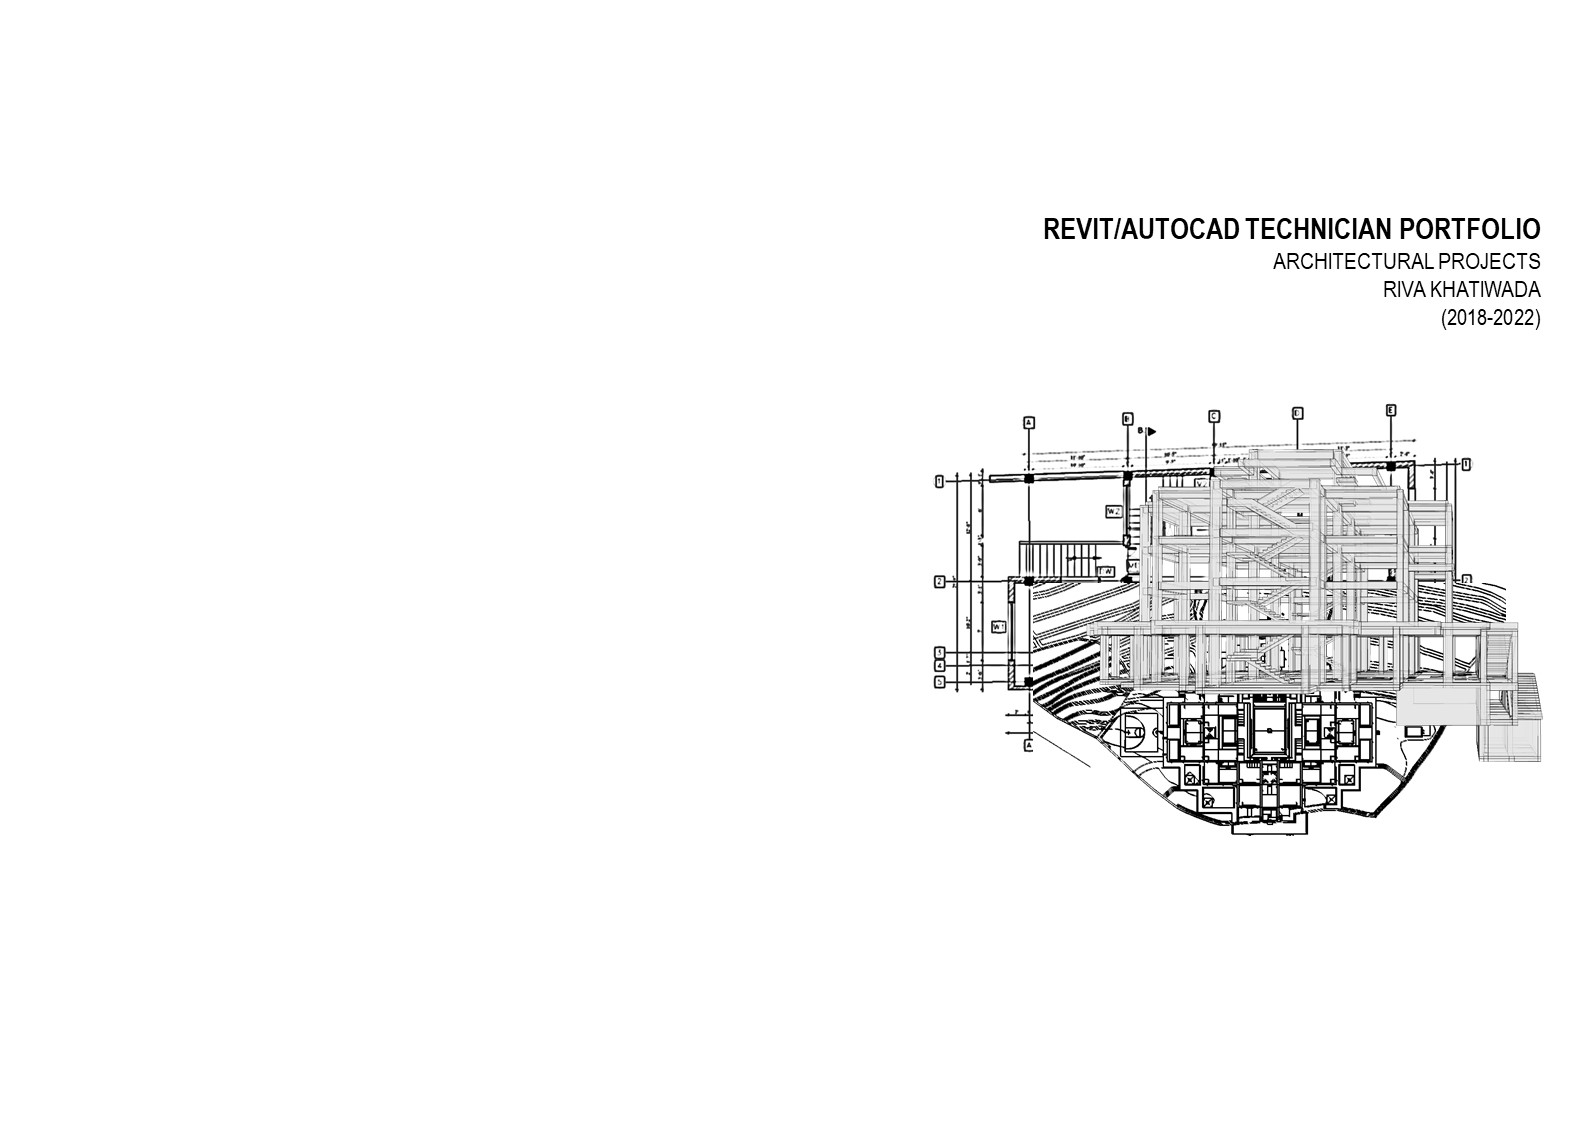
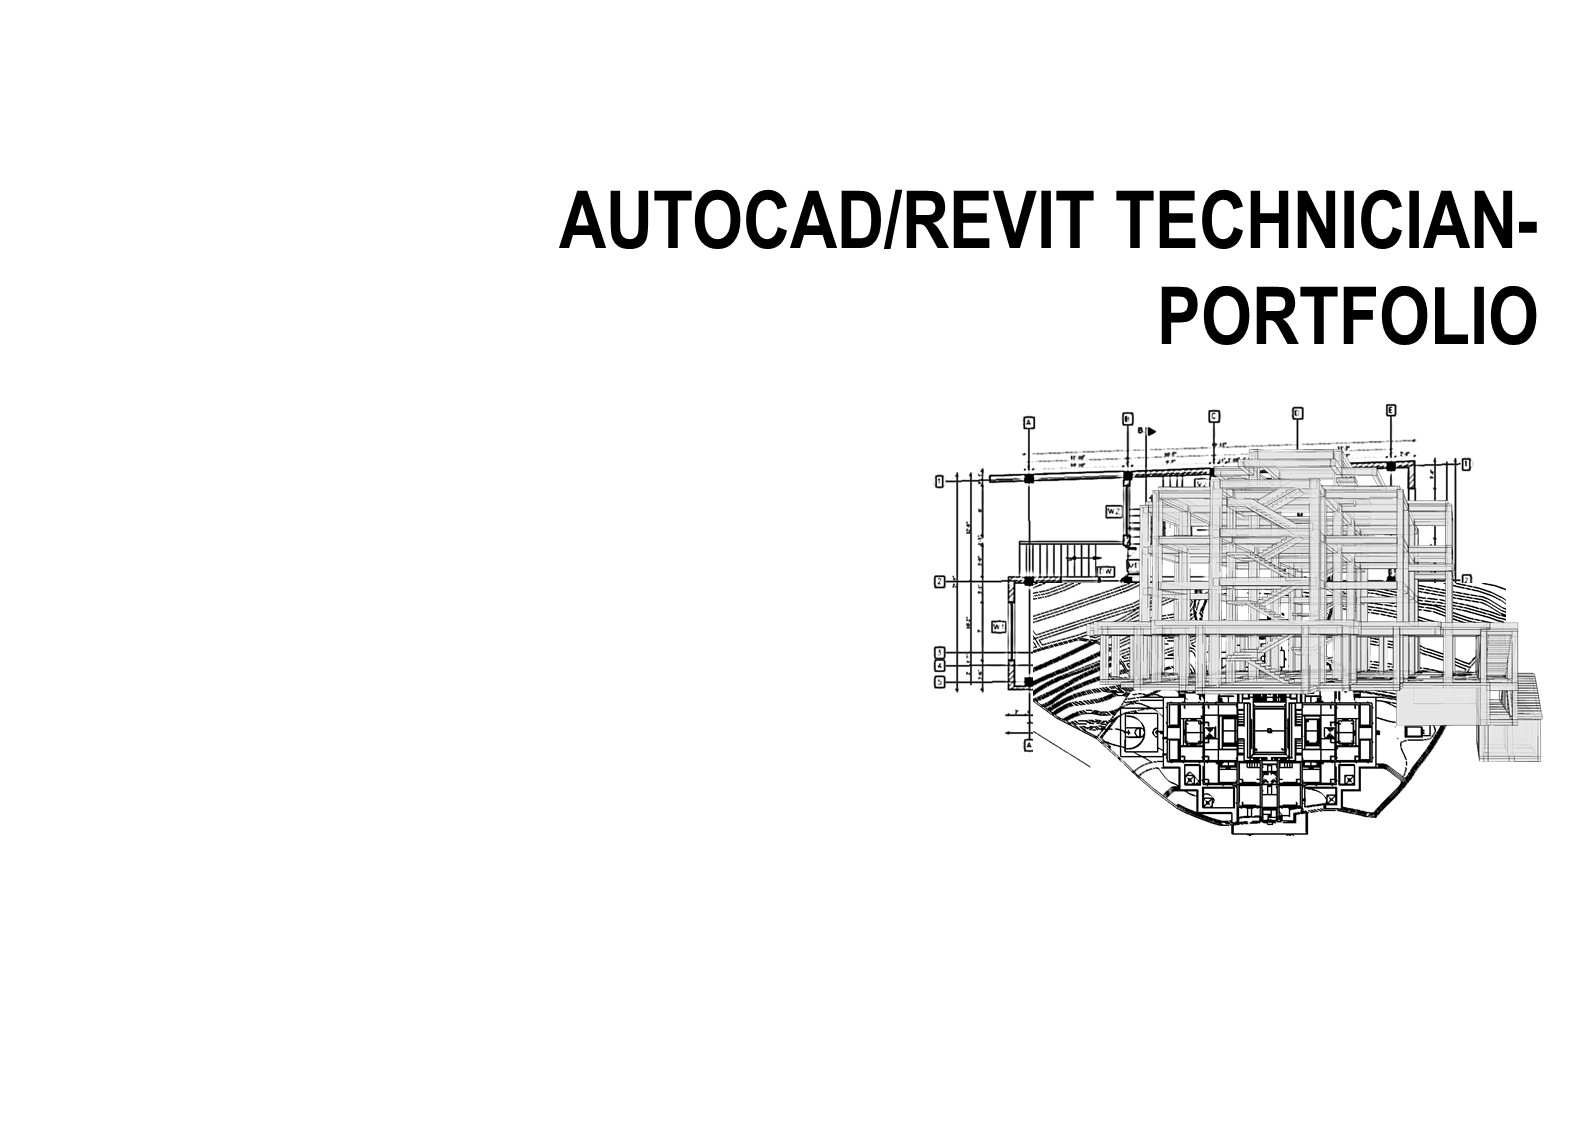
added new cover and reference updated

Changed region(s): [[0.3388, 0.154, 0.9855, 0.3081]]

diff --git a/index.html b/index.html
@@ -245,21 +245,21 @@
               <div x-show.immediate="testimonialActive === 1">
                 <p class="text-gray-600 serif font-normal italic px-6 py-6 md:px-16 md:py-10 text-xl md:text-2xl"
                   x-show.transition="testimonialActive == 1">
-                  Hard Working, Reliable and Dependable.
+                  Riva has shown extraordinary skills as a committed, hard-working, and creative junior architect as well as great personality traits. She has a jubilant personality and always contributes positively toward a rift-free environment.
                 </p>
               </div>
 
               <div x-show.immediate="testimonialActive === 2">
                 <p class="text-gray-600 serif font-normal italic px-6 py-6 md:px-16 md:py-10 text-xl md:text-2xl"
                   x-show.transition="testimonialActive == 2">
-                  Quick Learner and Good at Problem Solving.
+                  Riva has excellent attention to detail and a powerful creative vision that has been of great asset. She has also consistently worked long hours to provide the support we needed in our projects.
                 </p>
               </div>
 
               <div x-show.immediate="testimonialActive === 3">
                 <p class="text-gray-600 serif font-normal italic px-6 py-6 md:px-16 md:py-10 text-xl md:text-2xl"
                   x-show.transition="testimonialActive == 3">
-                  Responsivable and Reliable.
+                  I taught Riva as an Undergraduate, and she also volunteered at the Society of Nepalese Architects, where I'm General Secretary. Riva's dedication, leadership and communication abilities, and unwavering commitment to achieving goals have impressed me on various fronts. She can work exceptionally well with others, ensuring her team members' peer development.
                 </p>
               </div>
             </div>
@@ -267,10 +267,10 @@
             <div class="flex my-4 justify-center items-center">
               <button @click.prevent="testimonialActive = 1"
                 class="text-center font-bold shadow-xs focus:outline-none focus:shadow-outline inline-block rounded-full mx-2"
-                :class="{'h-12 w-12 opacity-25 bg-indigo-300 text-gray-600': testimonialActive != 1, 'h-16 w-16 opacity-100 bg-indigo-600 text-white': testimonialActive == 1 }">KM</button>
+                :class="{'h-12 w-12 opacity-25 bg-indigo-300 text-gray-600': testimonialActive != 1, 'h-16 w-16 opacity-100 bg-indigo-600 text-white': testimonialActive == 1 }">SD</button>
               <button @click.prevent="testimonialActive = 2"
                 class="text-center font-bold shadow-xs focus:outline-none focus:shadow-outline h-16 w-16 inline-block bg-indigo-600 rounded-full mx-2"
-                :class="{'h-12 w-12 opacity-25 bg-indigo-300 text-gray-600': testimonialActive != 2, 'h-16 w-16 opacity-100 bg-indigo-600 text-white': testimonialActive == 2 }">SD</button>
+                :class="{'h-12 w-12 opacity-25 bg-indigo-300 text-gray-600': testimonialActive != 2, 'h-16 w-16 opacity-100 bg-indigo-600 text-white': testimonialActive == 2 }">BS</button>
               <button @click.prevent="testimonialActive = 3"
                 class="text-center font-bold shadow-xs focus:outline-none focus:shadow-outline h-12 w-12 inline-block bg-indigo-600 rounded-full mx-2"
                 :class="{'h-12 w-12 opacity-25 bg-indigo-300 text-gray-600': testimonialActive != 3, 'h-16 w-16 opacity-100 bg-indigo-600 text-white': testimonialActive == 3 }">AK</button>
@@ -278,13 +278,13 @@
 
             <div class="flex justify-center px-6 pt-2 pb-6 md:py-6">
               <div class="text-center" x-show="testimonialActive == 1">
-                <h2 class="text-sm md:text-base font-bold text-gray-700 leading-tight">Bibek Shrestha</h2>
-                <small class="text-gray-500 text-xs md:text-sm truncate">Map Design co.</small>
+                <h2 class="text-sm md:text-base font-bold text-gray-700 leading-tight">Samir Dahal</h2>
+                <small class="text-gray-500 text-xs md:text-sm truncate">Mid Studio </small>
               </div>
 
               <div class="text-center" x-show="testimonialActive == 2">
-                <h2 class="text-sm md:text-base font-bold text-gray-700 leading-tight">Samir Dahal</h2>
-                <small class="text-gray-500 text-xs md:text-sm truncate">Mid Studio</small>
+                <h2 class="text-sm md:text-base font-bold text-gray-700 leading-tight">Bibek Shrestha</h2>
+                <small class="text-gray-500 text-xs md:text-sm truncate">Map Design co.</small>
               </div>
 
               <div class="text-center" x-show="testimonialActive == 3">
